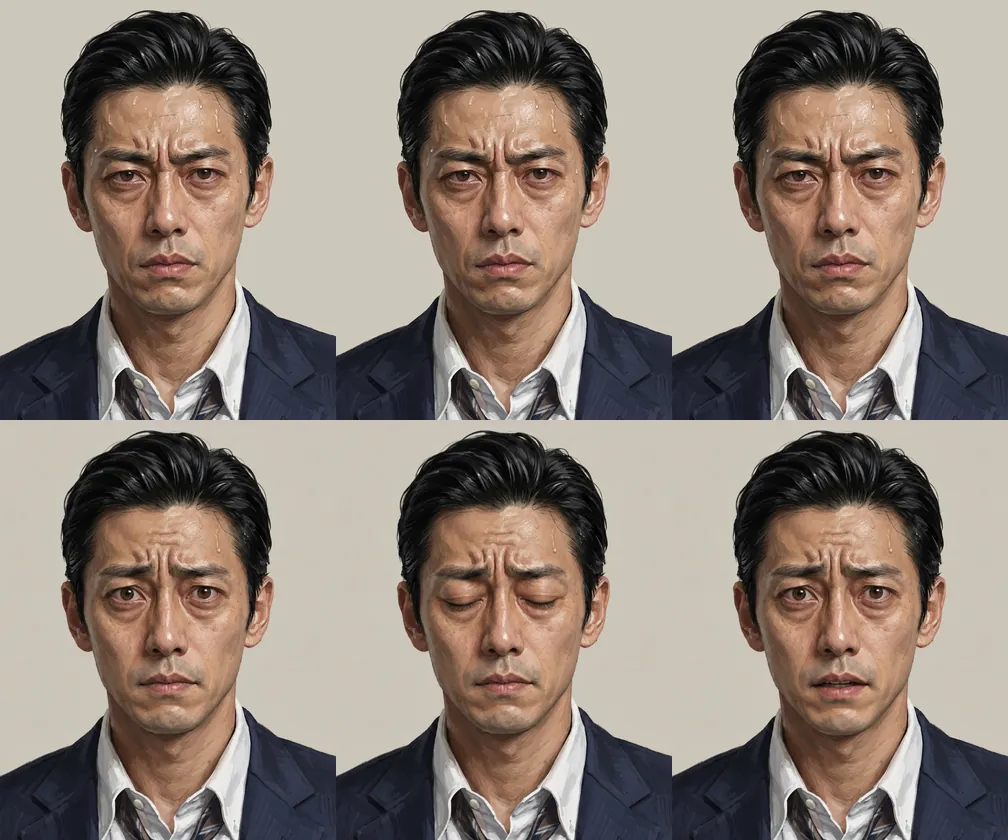
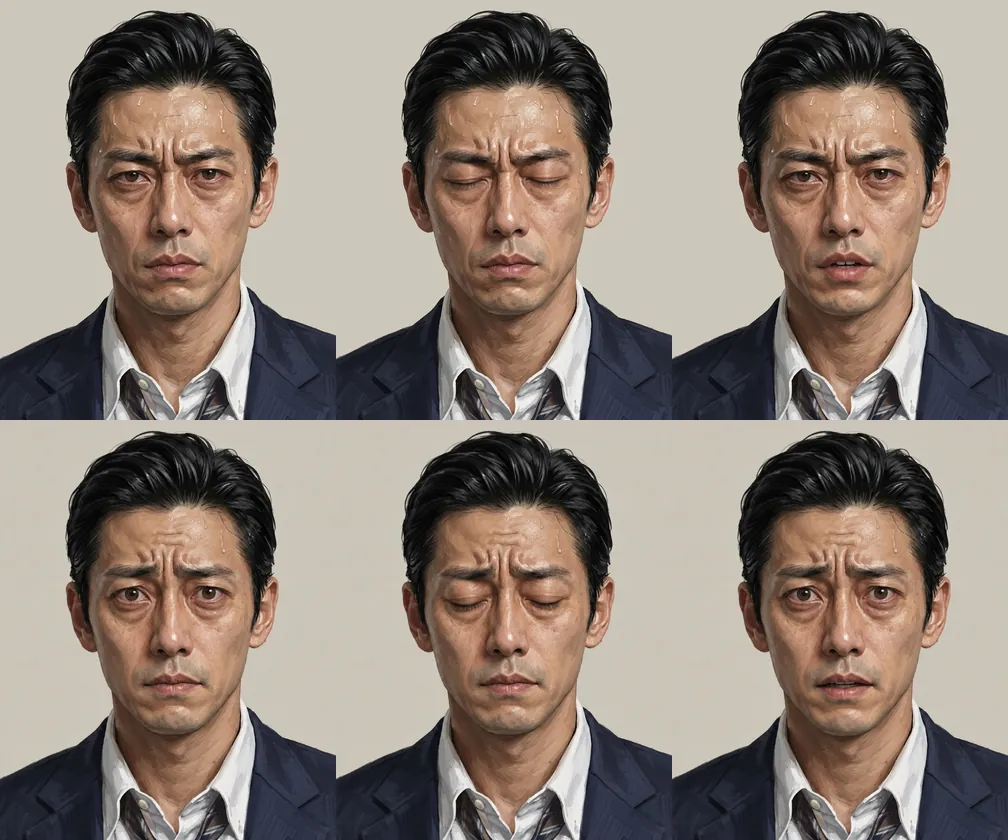
Faces blink and talk in CASE 12-15; their culprits shake and break; Brennan wears the horn-rimmed glasses the witnesses describe

diff --git a/img/manifest.js b/img/manifest.js
@@ -126,7 +126,7 @@ window.MG.images = {
   "c05/env_sheriff": "img/c05/env_sheriff.webp?v=09a24b19",
   "c05/env_star": "img/c05/env_star.webp?v=407baafc",
   "c05/env_typed": "img/c05/env_typed.webp?v=b580f052",
-  "c05/face_p_brennan": "img/c05/face_p_brennan.webp?v=50ef5759",
+  "c05/face_p_brennan": "img/c05/face_p_brennan.webp?v=32f98448",
   "c05/face_p_coyle": "img/c05/face_p_coyle.webp?v=4540fdb5",
   "c05/face_p_delgado": "img/c05/face_p_delgado.webp?v=4d45c697",
   "c05/face_p_dugan": "img/c05/face_p_dugan.webp?v=0e892991",
@@ -306,14 +306,14 @@ window.MG.images = {
   "c12/cover_bg": "img/c12/cover_bg.webp?v=fe8e5bb3",
   "c12/cover_s": "img/c12/cover_s.webp?v=d09cf988",
   "c12/dengon": "img/c12/dengon.webp?v=6af36349",
-  "c12/face_p_ishiguro": "img/c12/face_p_ishiguro.webp?v=f4fc2f9f",
-  "c12/face_p_kimura": "img/c12/face_p_kimura.webp?v=a3e86885",
-  "c12/face_p_murakoshi": "img/c12/face_p_murakoshi.webp?v=583ccd0b",
-  "c12/face_p_ogawa": "img/c12/face_p_ogawa.webp?v=e3d17c10",
-  "c12/face_p_paperboy": "img/c12/face_p_paperboy.webp?v=a3df938a",
-  "c12/face_p_shinji": "img/c12/face_p_shinji.webp?v=80297960",
-  "c12/face_p_takano": "img/c12/face_p_takano.webp?v=4e1cd5c9",
-  "c12/face_p_toshie": "img/c12/face_p_toshie.webp?v=0cb94158",
+  "c12/face_p_ishiguro": "img/c12/face_p_ishiguro.webp?v=d0ff18cb",
+  "c12/face_p_kimura": "img/c12/face_p_kimura.webp?v=082e8de2",
+  "c12/face_p_murakoshi": "img/c12/face_p_murakoshi.webp?v=7ed7e005",
+  "c12/face_p_ogawa": "img/c12/face_p_ogawa.webp?v=e6107e68",
+  "c12/face_p_paperboy": "img/c12/face_p_paperboy.webp?v=2fbeb8cd",
+  "c12/face_p_shinji": "img/c12/face_p_shinji.webp?v=cebc658c",
+  "c12/face_p_takano": "img/c12/face_p_takano.webp?v=34494019",
+  "c12/face_p_toshie": "img/c12/face_p_toshie.webp?v=b7f5bdcb",
   "c12/jiage": "img/c12/jiage.webp?v=b96e3af3",
   "c12/knot_bag": "img/c12/knot_bag.webp?v=b553acc6",
   "c12/luminol": "img/c12/luminol.webp?v=c22f181a",
@@ -340,11 +340,11 @@ window.MG.images = {
   "c13/cover_s": "img/c13/cover_s.webp?v=1495581b",
   "c13/door": "img/c13/door.webp?v=4606f206",
   "c13/drop": "img/c13/drop.webp?v=cfb6ffb6",
-  "c13/face_p_choi": "img/c13/face_p_choi.webp?v=d267a212",
-  "c13/face_p_jihan": "img/c13/face_p_jihan.webp?v=7c7bc77f",
-  "c13/face_p_kim": "img/c13/face_p_kim.webp?v=d6cff7ba",
-  "c13/face_p_oh": "img/c13/face_p_oh.webp?v=02e66d41",
-  "c13/face_p_woojin": "img/c13/face_p_woojin.webp?v=89f612c1",
+  "c13/face_p_choi": "img/c13/face_p_choi.webp?v=5faf7a1d",
+  "c13/face_p_jihan": "img/c13/face_p_jihan.webp?v=0ed3751e",
+  "c13/face_p_kim": "img/c13/face_p_kim.webp?v=33c6789d",
+  "c13/face_p_oh": "img/c13/face_p_oh.webp?v=e69cc2f5",
+  "c13/face_p_woojin": "img/c13/face_p_woojin.webp?v=ad4fa4f8",
   "c13/kick": "img/c13/kick.webp?v=02f09eea",
   "c13/locker": "img/c13/locker.webp?v=a06a2d94",
   "c13/room": "img/c13/room.webp?v=353632b7",
@@ -356,13 +356,13 @@ window.MG.images = {
   "c14/cover": "img/c14/cover.webp?v=6d424663",
   "c14/cover_bg": "img/c14/cover_bg.webp?v=7ef5560e",
   "c14/cover_s": "img/c14/cover_s.webp?v=adbea913",
-  "c14/face_p_changhoon": "img/c14/face_p_changhoon.webp?v=c995db05",
-  "c14/face_p_eunju": "img/c14/face_p_eunju.webp?v=94448c85",
-  "c14/face_p_jeongrye": "img/c14/face_p_jeongrye.webp?v=29e4ab2c",
-  "c14/face_p_oksun": "img/c14/face_p_oksun.webp?v=7b1cb2ce",
-  "c14/face_p_seok": "img/c14/face_p_seok.webp?v=980d3bf5",
-  "c14/face_p_siwoo": "img/c14/face_p_siwoo.webp?v=481d014c",
-  "c14/face_p_taeo": "img/c14/face_p_taeo.webp?v=f701de9c",
+  "c14/face_p_changhoon": "img/c14/face_p_changhoon.webp?v=b11d9d3d",
+  "c14/face_p_eunju": "img/c14/face_p_eunju.webp?v=8a9e5cef",
+  "c14/face_p_jeongrye": "img/c14/face_p_jeongrye.webp?v=4e78726f",
+  "c14/face_p_oksun": "img/c14/face_p_oksun.webp?v=0ac960ae",
+  "c14/face_p_seok": "img/c14/face_p_seok.webp?v=ecd7aee4",
+  "c14/face_p_siwoo": "img/c14/face_p_siwoo.webp?v=90b6ecf9",
+  "c14/face_p_taeo": "img/c14/face_p_taeo.webp?v=0b4333e3",
   "c14/fakedoc": "img/c14/fakedoc.webp?v=0e05b0e6",
   "c14/lock": "img/c14/lock.webp?v=4ecce381",
   "c14/market": "img/c14/market.webp?v=c094f293",
@@ -381,10 +381,10 @@ window.MG.images = {
   "c15/elev_cam": "img/c15/elev_cam.webp?v=b72ff04e",
   "c15/face_p_harin": "img/c15/face_p_harin.webp?v=79245a9f",
   "c15/face_p_jisu": "img/c15/face_p_jisu.webp?v=8840d0c3",
-  "c15/face_p_junhyuk": "img/c15/face_p_junhyuk.webp?v=dfc1134a",
-  "c15/face_p_landlord": "img/c15/face_p_landlord.webp?v=19470942",
-  "c15/face_p_minjae": "img/c15/face_p_minjae.webp?v=c864c061",
-  "c15/face_p_woobin": "img/c15/face_p_woobin.webp?v=d7566c64",
+  "c15/face_p_junhyuk": "img/c15/face_p_junhyuk.webp?v=ce2365d8",
+  "c15/face_p_landlord": "img/c15/face_p_landlord.webp?v=53958761",
+  "c15/face_p_minjae": "img/c15/face_p_minjae.webp?v=ca18eeab",
+  "c15/face_p_woobin": "img/c15/face_p_woobin.webp?v=c59f66fe",
   "c15/futsal": "img/c15/futsal.webp?v=8f245fe7",
   "c15/helmet_cam": "img/c15/helmet_cam.webp?v=d547b8e2",
   "c15/libnote": "img/c15/libnote.webp?v=f6e87ea0",
@@ -418,4 +418,4 @@ window.MG.images = {
   "_global/paper": "img/_global/paper.webp?v=da0f1de2",
   "_global/warn": "img/_global/warn.webp?v=1bc88cad"
 };
-window.MG.imageSize = {"c00/award":[1280,854],"c00/booth":[1280,960],"c00/bridge":[1280,960],"c00/cake":[1280,854],"c00/cat":[1280,960],"c00/cover":[1280,960],"c00/cover_bg":[640,480],"c00/cover_s":[260,196],"c00/cup":[1280,854],"c00/desk":[1280,960],"c00/doorbag":[1280,960],"c00/face_p_dohyun":[1008,420],"c00/face_p_jaehee":[1008,1260],"c00/face_p_manager":[1008,420],"c00/face_p_minji":[1008,420],"c00/face_p_neighbor":[1008,420],"c00/psd_preview":[1200,840],"c00/sketch":[1280,854],"c01/b_register":[1280,854],"c01/cover":[1280,960],"c01/cover_bg":[640,480],"c01/cover_s":[260,196],"c01/face_p_bill":[1008,840],"c01/face_p_croft":[1008,1260],"c01/face_p_dill":[1008,420],"c01/face_p_hannah":[1008,420],"c01/face_p_peggy":[1008,420],"c01/face_p_quarrell":[1008,420],"c01/face_p_vane":[1008,840],"c01/l_letter":[1280,960],"c01/l_postcard":[1280,960],"c01/l_slip":[1280,854],"c01/map":[1280,1170],"c01/patrollog":[1280,960],"c01/q_lamp":[1280,854],"c01/q_thread":[1280,1072],"c01/roseletter":[1280,962],"c01/s_candle":[1280,854],"c01/s_court":[1280,854],"c01/s_fundbox":[1280,854],"c01/s_patrol":[1280,854],"c01/s_sailor":[1280,854],"c01/s_tanners":[1280,854],"c02/attic":[1280,854],"c02/autopsy_table":[1280,960],"c02/barn_floor":[1280,960],"c02/calendar":[1280,1170],"c02/cover":[1280,854],"c02/cover_bg":[640,428],"c02/cover_s":[260,174],"c02/face_p_gerstl":[1008,420],"c02/face_p_hubmann":[1008,420],"c02/face_p_knauer":[1008,1260],"c02/face_p_magdalena":[1008,420],"c02/face_p_pfaenzl":[1008,840],"c02/face_p_resl":[1008,420],"c02/face_p_rottmayr":[1008,420],"c02/farm":[1280,854],"c02/hausbuch":[1280,854],"c02/hut":[1280,854],"c02/kasten":[1280,1170],"c02/kitchen":[1128,854],"c02/lock":[1280,1072],"c02/mailbox":[1280,854],"c02/plan":[1280,854],"c02/sk_kitchen":[1280,854],"c02/sk_stall":[1280,854],"c02/sledge":[1280,406],"c02/stall":[1280,854],"c02/suitcase":[1280,960],"c03/b_cafe":[1280,854],"c03/b_sewing":[1280,854],"c03/cover":[1280,1066],"c03/cover_bg":[640,534],"c03/cover_s":[260,216],"c03/face_p_baek":[1008,420],"c03/face_p_choi":[1008,420],"c03/face_p_gil":[1008,420],"c03/face_p_kwak":[1008,420],"c03/face_p_park":[1008,420],"c03/face_p_seo":[1008,1260],"c03/map":[1222,1288],"c03/n_boheol":[1280,1072],"c03/n_jodk":[1280,854],"c03/n_singer":[1280,1072],"c03/p_radio":[1280,960],"c03/p_safe":[1280,1170],"c03/p_shop":[1280,854],"c03/p_well":[1280,854],"c04/bike":[1280,854],"c04/bikephoto":[1280,800],"c04/boxes":[1280,960],"c04/coat":[1280,962],"c04/cover":[1280,854],"c04/cover_bg":[640,428],"c04/cover_s":[260,174],"c04/face_p_genzo":[1008,420],"c04/face_p_irie":[1008,1260],"c04/face_p_kitamura":[1008,840],"c04/face_p_okabe":[1008,840],"c04/face_p_ono":[1008,420],"c04/face_p_shimada":[1008,420],"c04/flare":[1280,960],"c04/kurotaki":[1280,854],"c04/l3_back":[1280,960],"c04/letter":[1280,854],"c04/map":[1280,854],"c04/matchbox":[1280,960],"c04/montage":[1030,1182],"c04/scene":[1280,720],"c04/siteboard":[1280,960],"c04/wind":[1280,960],"c05/cedar":[1280,720],"c05/cedar_car":[1280,960],"c05/cipherimg":[1280,960],"c05/cover":[1280,960],"c05/cover_bg":[640,480],"c05/cover_s":[260,196],"c05/depot":[1280,720],"c05/env_four":[1280,854],"c05/env_ref":[1280,854],"c05/env_sheriff":[1280,720],"c05/env_star":[1280,854],"c05/env_typed":[1280,854],"c05/face_p_brennan":[1008,1260],"c05/face_p_coyle":[1008,420],"c05/face_p_delgado":[1008,420],"c05/face_p_dugan":[1008,420],"c05/face_p_lowell":[1008,420],"c05/face_p_osgood":[1008,420],"c05/face_p_pell":[1008,840],"c05/letter1":[1280,854],"c05/lighthouse":[1280,720],"c05/masonhill":[1280,720],"c05/mh_car":[1280,960],"c05/payphone":[1086,1448],"c05/sketch":[1086,1448],"c05/truck":[1280,720],"c05/typed":[1280,960],"c06/autopsy_sheet":[1280,958],"c06/autopsy_sheet_mild":[1280,958],"c06/bags_table":[1280,854],"c06/cover":[1280,854],"c06/cover_bg":[640,428],"c06/cover_s":[260,174],"c06/face_p_brate":[1008,1260],"c06/face_p_kari":[1008,420],"c06/face_p_per":[1008,420],"c06/face_p_randi":[1008,420],"c06/face_p_remmert":[1008,840],"c06/face_p_solveig":[1008,420],"c06/face_p_taxi":[1008,420],"c06/fuel":[1280,854],"c06/harbor":[1280,854],"c06/hytte":[1280,854],"c06/regcard":[1280,960],"c06/scene_hollow":[1280,960],"c06/scene_hollow_mild":[1280,960],"c06/ship":[1280,854],"c06/station":[1280,854],"c06/stern":[1280,854],"c06/suitcases":[1280,498],"c06/thermos":[1280,854],"c06/touristmap":[1280,960],"c06/valley":[1280,960],"c07/cover":[1280,854],"c07/cover_bg":[640,428],"c07/cover_s":[260,174],"c07/face_p_granny":[1008,420],"c07/face_p_madam":[1008,420],"c07/face_p_mansik":[1008,840],"c07/face_p_no":[1008,840],"c07/face_p_operator":[1008,420],"c07/face_p_seok":[1008,1260],"c07/face_p_wife":[1008,840],"c07/handbag":[1280,960],"c07/house":[1280,960],"c07/ledger_page":[1280,960],"c07/news_car":[1280,854],"c07/photo_car":[1280,960],"c07/photo_seat":[1280,854],"c07/scene_map":[1280,854],"c07/seokcar":[1280,854],"c07/shop":[1280,854],"c07/songwol_gate":[1280,854],"c07/switchboard":[1280,960],"c07/tv":[1254,1254],"c08/booth":[1280,854],"c08/church":[1086,1448],"c08/cover":[1280,854],"c08/cover_bg":[640,428],"c08/cover_s":[260,174],"c08/face_p_driver":[1008,420],"c08/face_p_father":[1008,420],"c08/face_p_foreman":[1008,840],"c08/face_p_mother":[1008,420],"c08/face_p_shop":[1008,420],"c08/face_p_tak":[1008,1260],"c08/face_p_tutor":[1008,840],"c08/flyer":[1280,854],"c08/keys":[1280,960],"c08/map":[1280,854],"c08/montage":[1086,1448],"c08/montage_print":[1086,1448],"c08/news_site":[1280,960],"c08/note_paper":[1280,854],"c08/rail":[1280,854],"c08/ransom_bag":[1280,854],"c08/sg_call":[1200,576],"c08/sg_han":[1200,576],"c08/sg_jang":[1200,576],"c08/sg_tak":[1200,576],"c08/sg_yeom":[1200,576],"c08/shop_ledger":[1280,960],"c08/solmaru":[1280,960],"c08/warehouse":[1280,960],"c09/busstop":[1280,854],"c09/cctv":[1056,720],"c09/courier_room":[1280,854],"c09/cover":[1280,960],"c09/cover_bg":[640,480],"c09/cover_s":[260,196],"c09/door":[1280,960],"c09/face_p_courier":[1008,840],"c09/face_p_eunbi":[1008,420],"c09/face_p_jinwoo":[1008,420],"c09/face_p_realtor":[1008,420],"c09/face_p_sora":[1008,420],"c09/face_p_tak":[1008,1260],"c09/frames":[1280,960],"c09/haeun_photo":[1280,854],"c09/house204":[1280,960],"c09/house217":[1280,960],"c09/house219":[1280,854],"c09/house226":[1280,854],"c09/house230":[1280,960],"c09/map":[1280,854],"c09/mt_photo":[1280,854],"c09/ph217":[1280,960],"c09/ph219":[1280,960],"c09/pyogu":[1280,960],"c09/roof":[1280,854],"c09/sora_photo":[1280,960],"c10/cam_a":[1280,854],"c10/cam_b":[1280,720],"c10/cam_pier":[1280,960],"c10/cam_store":[1280,960],"c10/cam_taxi":[1280,720],"c10/cap":[1280,960],"c10/cover":[1280,854],"c10/cover_bg":[640,428],"c10/cover_s":[260,174],"c10/crates":[1280,960],"c10/face_p_bang":[1008,1260],"c10/face_p_guard":[1008,420],"c10/face_p_miran":[1008,420],"c10/face_p_myeongsu":[1008,840],"c10/face_p_okja":[1008,420],"c10/face_p_sangmin":[1008,420],"c10/hoesik":[1280,960],"c10/pier_day":[1280,960],"c11/autopsy_room":[1280,854],"c11/bus":[1280,854],"c11/butcher_floor":[1280,854],"c11/butcher_lumi":[1280,854],"c11/cover":[1280,960],"c11/cover_bg":[640,480],"c11/cover_s":[260,196],"c11/cut_a":[1280,854],"c11/cut_b":[1280,854],"c11/cut_c":[1280,854],"c11/cut_d":[1280,854],"c11/cut_ev":[1280,854],"c11/face_p_gil":[1008,420],"c11/face_p_ham":[1008,420],"c11/face_p_han":[1008,420],"c11/face_p_jin":[1008,420],"c11/face_p_park":[1008,420],"c11/face_p_woo":[1008,840],"c11/face_p_yeom":[1008,420],"c11/gauge":[1280,854],"c11/items_table":[1280,854],"c11/knot_ev":[1280,960],"c11/ledger_page":[1280,854],"c11/news_bridge":[1280,854],"c11/news_divers":[1280,960],"c11/news_reeds":[1280,854],"c11/news_shop":[1280,854],"c11/news_workshop":[1280,854],"c11/nfs_nacre":[1280,960],"c11/occ_reeds":[1280,854],"c11/photo_sack":[1280,960],"c11/ph_lumi":[1280,854],"c11/ph_match":[1280,854],"c11/ph_print":[1280,854],"c11/workshop_floor":[1280,854],"c12/bagsample":[1280,854],"c12/boiler":[1280,960],"c12/butcher":[1280,854],"c12/cleancart":[1280,1024],"c12/cover":[1280,854],"c12/cover_bg":[640,428],"c12/cover_s":[260,174],"c12/dengon":[1280,854],"c12/face_p_ishiguro":[1008,420],"c12/face_p_kimura":[1008,420],"c12/face_p_murakoshi":[1008,840],"c12/face_p_ogawa":[1008,420],"c12/face_p_paperboy":[1008,420],"c12/face_p_shinji":[1008,420],"c12/face_p_takano":[1008,420],"c12/face_p_toshie":[1008,420],"c12/jiage":[1280,960],"c12/knot_bag":[1280,960],"c12/luminol":[1280,960],"c12/n_park":[1280,854],"c12/pinkphone":[1024,1536],"c12/room":[1095,1072],"c12/saw_cast":[1280,960],"c12/scene_bin":[1280,854],"c12/sento":[1024,1536],"c12/sk_east":[1280,854],"c12/sk_lum":[1280,854],"c12/sk_sento":[1280,854],"c12/store":[1280,854],"c12/trap":[1280,854],"c12/videocard":[1280,854],"c12/wp":[1280,960],"c13/alley_day":[1280,960],"c13/bread":[1280,960],"c13/cctv_drop":[1280,720],"c13/cctv_pick":[1280,720],"c13/counter":[1280,854],"c13/cover":[1280,960],"c13/cover_bg":[640,480],"c13/cover_s":[260,196],"c13/door":[1280,960],"c13/drop":[1280,960],"c13/face_p_choi":[1008,420],"c13/face_p_jihan":[1008,420],"c13/face_p_kim":[1008,420],"c13/face_p_oh":[1008,420],"c13/face_p_woojin":[1008,420],"c13/kick":[1280,960],"c13/locker":[1280,960],"c13/room":[1280,854],"c13/store":[1280,960],"c13/tablet":[1280,960],"c14/atm":[888,960],"c14/bankbook":[1280,960],"c14/calendar":[1280,960],"c14/cover":[1280,960],"c14/cover_bg":[640,480],"c14/cover_s":[260,196],"c14/face_p_changhoon":[1008,420],"c14/face_p_eunju":[1008,420],"c14/face_p_jeongrye":[1008,420],"c14/face_p_oksun":[1008,420],"c14/face_p_seok":[1008,420],"c14/face_p_siwoo":[1008,420],"c14/face_p_taeo":[1008,420],"c14/fakedoc":[1280,960],"c14/lock":[1280,960],"c14/market":[1280,960],"c14/oksun":[1280,960],"c14/park":[1280,720],"c14/scooter":[1280,960],"c14/sk_door":[1280,854],"c14/sk_locker":[1280,854],"c14/stakeout":[1280,720],"c15/carlot":[1280,854],"c15/carwash":[1280,720],"c15/cctv_lane":[1280,960],"c15/cover":[1280,960],"c15/cover_bg":[640,480],"c15/cover_s":[260,196],"c15/elev_cam":[1280,960],"c15/face_p_harin":[1008,420],"c15/face_p_jisu":[1008,420],"c15/face_p_junhyuk":[1008,420],"c15/face_p_landlord":[1008,420],"c15/face_p_minjae":[1008,420],"c15/face_p_woobin":[1008,420],"c15/futsal":[1280,960],"c15/helmet_cam":[1280,720],"c15/libnote":[1280,960],"c15/note_photo":[1280,960],"c15/plate_photo":[1280,960],"c15/shoes":[1280,960],"c15/tracker_photo":[1280,960],"c15/watch_found":[1280,960],"_desk/ashtray":[600,594],"_desk/cassette":[600,400],"_desk/clips":[600,616],"_desk/energy":[600,600],"_desk/evidencebag":[600,900],"_desk/flipphone":[600,970],"_desk/glasses":[600,208],"_desk/inkpen":[600,588],"_desk/lanyard":[600,600],"_desk/magnifier":[600,602],"_desk/matchbox":[600,552],"_desk/mug":[600,488],"_desk/pager":[600,560],"_desk/pencil":[600,70],"_desk/pocketwatch":[600,588],"_desk/radio":[600,900],"_desk/smartphone":[600,1096],"_desk/stamp":[600,548],"_desk/takeaway":[600,706],"_desk/teacup":[600,602],"_global/desk":[1024,1024],"_global/hero":[1672,942],"_global/paper":[1024,1024],"_global/warn":[600,200]};
+window.MG.imageSize = {"c00/award":[1280,854],"c00/booth":[1280,960],"c00/bridge":[1280,960],"c00/cake":[1280,854],"c00/cat":[1280,960],"c00/cover":[1280,960],"c00/cover_bg":[640,480],"c00/cover_s":[260,196],"c00/cup":[1280,854],"c00/desk":[1280,960],"c00/doorbag":[1280,960],"c00/face_p_dohyun":[1008,420],"c00/face_p_jaehee":[1008,1260],"c00/face_p_manager":[1008,420],"c00/face_p_minji":[1008,420],"c00/face_p_neighbor":[1008,420],"c00/psd_preview":[1200,840],"c00/sketch":[1280,854],"c01/b_register":[1280,854],"c01/cover":[1280,960],"c01/cover_bg":[640,480],"c01/cover_s":[260,196],"c01/face_p_bill":[1008,840],"c01/face_p_croft":[1008,1260],"c01/face_p_dill":[1008,420],"c01/face_p_hannah":[1008,420],"c01/face_p_peggy":[1008,420],"c01/face_p_quarrell":[1008,420],"c01/face_p_vane":[1008,840],"c01/l_letter":[1280,960],"c01/l_postcard":[1280,960],"c01/l_slip":[1280,854],"c01/map":[1280,1170],"c01/patrollog":[1280,960],"c01/q_lamp":[1280,854],"c01/q_thread":[1280,1072],"c01/roseletter":[1280,962],"c01/s_candle":[1280,854],"c01/s_court":[1280,854],"c01/s_fundbox":[1280,854],"c01/s_patrol":[1280,854],"c01/s_sailor":[1280,854],"c01/s_tanners":[1280,854],"c02/attic":[1280,854],"c02/autopsy_table":[1280,960],"c02/barn_floor":[1280,960],"c02/calendar":[1280,1170],"c02/cover":[1280,854],"c02/cover_bg":[640,428],"c02/cover_s":[260,174],"c02/face_p_gerstl":[1008,420],"c02/face_p_hubmann":[1008,420],"c02/face_p_knauer":[1008,1260],"c02/face_p_magdalena":[1008,420],"c02/face_p_pfaenzl":[1008,840],"c02/face_p_resl":[1008,420],"c02/face_p_rottmayr":[1008,420],"c02/farm":[1280,854],"c02/hausbuch":[1280,854],"c02/hut":[1280,854],"c02/kasten":[1280,1170],"c02/kitchen":[1128,854],"c02/lock":[1280,1072],"c02/mailbox":[1280,854],"c02/plan":[1280,854],"c02/sk_kitchen":[1280,854],"c02/sk_stall":[1280,854],"c02/sledge":[1280,406],"c02/stall":[1280,854],"c02/suitcase":[1280,960],"c03/b_cafe":[1280,854],"c03/b_sewing":[1280,854],"c03/cover":[1280,1066],"c03/cover_bg":[640,534],"c03/cover_s":[260,216],"c03/face_p_baek":[1008,420],"c03/face_p_choi":[1008,420],"c03/face_p_gil":[1008,420],"c03/face_p_kwak":[1008,420],"c03/face_p_park":[1008,420],"c03/face_p_seo":[1008,1260],"c03/map":[1222,1288],"c03/n_boheol":[1280,1072],"c03/n_jodk":[1280,854],"c03/n_singer":[1280,1072],"c03/p_radio":[1280,960],"c03/p_safe":[1280,1170],"c03/p_shop":[1280,854],"c03/p_well":[1280,854],"c04/bike":[1280,854],"c04/bikephoto":[1280,800],"c04/boxes":[1280,960],"c04/coat":[1280,962],"c04/cover":[1280,854],"c04/cover_bg":[640,428],"c04/cover_s":[260,174],"c04/face_p_genzo":[1008,420],"c04/face_p_irie":[1008,1260],"c04/face_p_kitamura":[1008,840],"c04/face_p_okabe":[1008,840],"c04/face_p_ono":[1008,420],"c04/face_p_shimada":[1008,420],"c04/flare":[1280,960],"c04/kurotaki":[1280,854],"c04/l3_back":[1280,960],"c04/letter":[1280,854],"c04/map":[1280,854],"c04/matchbox":[1280,960],"c04/montage":[1030,1182],"c04/scene":[1280,720],"c04/siteboard":[1280,960],"c04/wind":[1280,960],"c05/cedar":[1280,720],"c05/cedar_car":[1280,960],"c05/cipherimg":[1280,960],"c05/cover":[1280,960],"c05/cover_bg":[640,480],"c05/cover_s":[260,196],"c05/depot":[1280,720],"c05/env_four":[1280,854],"c05/env_ref":[1280,854],"c05/env_sheriff":[1280,720],"c05/env_star":[1280,854],"c05/env_typed":[1280,854],"c05/face_p_brennan":[1008,1260],"c05/face_p_coyle":[1008,420],"c05/face_p_delgado":[1008,420],"c05/face_p_dugan":[1008,420],"c05/face_p_lowell":[1008,420],"c05/face_p_osgood":[1008,420],"c05/face_p_pell":[1008,840],"c05/letter1":[1280,854],"c05/lighthouse":[1280,720],"c05/masonhill":[1280,720],"c05/mh_car":[1280,960],"c05/payphone":[1086,1448],"c05/sketch":[1086,1448],"c05/truck":[1280,720],"c05/typed":[1280,960],"c06/autopsy_sheet":[1280,958],"c06/autopsy_sheet_mild":[1280,958],"c06/bags_table":[1280,854],"c06/cover":[1280,854],"c06/cover_bg":[640,428],"c06/cover_s":[260,174],"c06/face_p_brate":[1008,1260],"c06/face_p_kari":[1008,420],"c06/face_p_per":[1008,420],"c06/face_p_randi":[1008,420],"c06/face_p_remmert":[1008,840],"c06/face_p_solveig":[1008,420],"c06/face_p_taxi":[1008,420],"c06/fuel":[1280,854],"c06/harbor":[1280,854],"c06/hytte":[1280,854],"c06/regcard":[1280,960],"c06/scene_hollow":[1280,960],"c06/scene_hollow_mild":[1280,960],"c06/ship":[1280,854],"c06/station":[1280,854],"c06/stern":[1280,854],"c06/suitcases":[1280,498],"c06/thermos":[1280,854],"c06/touristmap":[1280,960],"c06/valley":[1280,960],"c07/cover":[1280,854],"c07/cover_bg":[640,428],"c07/cover_s":[260,174],"c07/face_p_granny":[1008,420],"c07/face_p_madam":[1008,420],"c07/face_p_mansik":[1008,840],"c07/face_p_no":[1008,840],"c07/face_p_operator":[1008,420],"c07/face_p_seok":[1008,1260],"c07/face_p_wife":[1008,840],"c07/handbag":[1280,960],"c07/house":[1280,960],"c07/ledger_page":[1280,960],"c07/news_car":[1280,854],"c07/photo_car":[1280,960],"c07/photo_seat":[1280,854],"c07/scene_map":[1280,854],"c07/seokcar":[1280,854],"c07/shop":[1280,854],"c07/songwol_gate":[1280,854],"c07/switchboard":[1280,960],"c07/tv":[1254,1254],"c08/booth":[1280,854],"c08/church":[1086,1448],"c08/cover":[1280,854],"c08/cover_bg":[640,428],"c08/cover_s":[260,174],"c08/face_p_driver":[1008,420],"c08/face_p_father":[1008,420],"c08/face_p_foreman":[1008,840],"c08/face_p_mother":[1008,420],"c08/face_p_shop":[1008,420],"c08/face_p_tak":[1008,1260],"c08/face_p_tutor":[1008,840],"c08/flyer":[1280,854],"c08/keys":[1280,960],"c08/map":[1280,854],"c08/montage":[1086,1448],"c08/montage_print":[1086,1448],"c08/news_site":[1280,960],"c08/note_paper":[1280,854],"c08/rail":[1280,854],"c08/ransom_bag":[1280,854],"c08/sg_call":[1200,576],"c08/sg_han":[1200,576],"c08/sg_jang":[1200,576],"c08/sg_tak":[1200,576],"c08/sg_yeom":[1200,576],"c08/shop_ledger":[1280,960],"c08/solmaru":[1280,960],"c08/warehouse":[1280,960],"c09/busstop":[1280,854],"c09/cctv":[1056,720],"c09/courier_room":[1280,854],"c09/cover":[1280,960],"c09/cover_bg":[640,480],"c09/cover_s":[260,196],"c09/door":[1280,960],"c09/face_p_courier":[1008,840],"c09/face_p_eunbi":[1008,420],"c09/face_p_jinwoo":[1008,420],"c09/face_p_realtor":[1008,420],"c09/face_p_sora":[1008,420],"c09/face_p_tak":[1008,1260],"c09/frames":[1280,960],"c09/haeun_photo":[1280,854],"c09/house204":[1280,960],"c09/house217":[1280,960],"c09/house219":[1280,854],"c09/house226":[1280,854],"c09/house230":[1280,960],"c09/map":[1280,854],"c09/mt_photo":[1280,854],"c09/ph217":[1280,960],"c09/ph219":[1280,960],"c09/pyogu":[1280,960],"c09/roof":[1280,854],"c09/sora_photo":[1280,960],"c10/cam_a":[1280,854],"c10/cam_b":[1280,720],"c10/cam_pier":[1280,960],"c10/cam_store":[1280,960],"c10/cam_taxi":[1280,720],"c10/cap":[1280,960],"c10/cover":[1280,854],"c10/cover_bg":[640,428],"c10/cover_s":[260,174],"c10/crates":[1280,960],"c10/face_p_bang":[1008,1260],"c10/face_p_guard":[1008,420],"c10/face_p_miran":[1008,420],"c10/face_p_myeongsu":[1008,840],"c10/face_p_okja":[1008,420],"c10/face_p_sangmin":[1008,420],"c10/hoesik":[1280,960],"c10/pier_day":[1280,960],"c11/autopsy_room":[1280,854],"c11/bus":[1280,854],"c11/butcher_floor":[1280,854],"c11/butcher_lumi":[1280,854],"c11/cover":[1280,960],"c11/cover_bg":[640,480],"c11/cover_s":[260,196],"c11/cut_a":[1280,854],"c11/cut_b":[1280,854],"c11/cut_c":[1280,854],"c11/cut_d":[1280,854],"c11/cut_ev":[1280,854],"c11/face_p_gil":[1008,420],"c11/face_p_ham":[1008,420],"c11/face_p_han":[1008,420],"c11/face_p_jin":[1008,420],"c11/face_p_park":[1008,420],"c11/face_p_woo":[1008,840],"c11/face_p_yeom":[1008,420],"c11/gauge":[1280,854],"c11/items_table":[1280,854],"c11/knot_ev":[1280,960],"c11/ledger_page":[1280,854],"c11/news_bridge":[1280,854],"c11/news_divers":[1280,960],"c11/news_reeds":[1280,854],"c11/news_shop":[1280,854],"c11/news_workshop":[1280,854],"c11/nfs_nacre":[1280,960],"c11/occ_reeds":[1280,854],"c11/photo_sack":[1280,960],"c11/ph_lumi":[1280,854],"c11/ph_match":[1280,854],"c11/ph_print":[1280,854],"c11/workshop_floor":[1280,854],"c12/bagsample":[1280,854],"c12/boiler":[1280,960],"c12/butcher":[1280,854],"c12/cleancart":[1280,1024],"c12/cover":[1280,854],"c12/cover_bg":[640,428],"c12/cover_s":[260,174],"c12/dengon":[1280,854],"c12/face_p_ishiguro":[1008,420],"c12/face_p_kimura":[1008,420],"c12/face_p_murakoshi":[1008,840],"c12/face_p_ogawa":[1008,420],"c12/face_p_paperboy":[1008,420],"c12/face_p_shinji":[1008,1260],"c12/face_p_takano":[1008,420],"c12/face_p_toshie":[1008,420],"c12/jiage":[1280,960],"c12/knot_bag":[1280,960],"c12/luminol":[1280,960],"c12/n_park":[1280,854],"c12/pinkphone":[1024,1536],"c12/room":[1095,1072],"c12/saw_cast":[1280,960],"c12/scene_bin":[1280,854],"c12/sento":[1024,1536],"c12/sk_east":[1280,854],"c12/sk_lum":[1280,854],"c12/sk_sento":[1280,854],"c12/store":[1280,854],"c12/trap":[1280,854],"c12/videocard":[1280,854],"c12/wp":[1280,960],"c13/alley_day":[1280,960],"c13/bread":[1280,960],"c13/cctv_drop":[1280,720],"c13/cctv_pick":[1280,720],"c13/counter":[1280,854],"c13/cover":[1280,960],"c13/cover_bg":[640,480],"c13/cover_s":[260,196],"c13/door":[1280,960],"c13/drop":[1280,960],"c13/face_p_choi":[1008,420],"c13/face_p_jihan":[1008,840],"c13/face_p_kim":[1008,420],"c13/face_p_oh":[1008,1260],"c13/face_p_woojin":[1008,840],"c13/kick":[1280,960],"c13/locker":[1280,960],"c13/room":[1280,854],"c13/store":[1280,960],"c13/tablet":[1280,960],"c14/atm":[888,960],"c14/bankbook":[1280,960],"c14/calendar":[1280,960],"c14/cover":[1280,960],"c14/cover_bg":[640,480],"c14/cover_s":[260,196],"c14/face_p_changhoon":[1008,420],"c14/face_p_eunju":[1008,420],"c14/face_p_jeongrye":[1008,420],"c14/face_p_oksun":[1008,420],"c14/face_p_seok":[1008,1260],"c14/face_p_siwoo":[1008,840],"c14/face_p_taeo":[1008,840],"c14/fakedoc":[1280,960],"c14/lock":[1280,960],"c14/market":[1280,960],"c14/oksun":[1280,960],"c14/park":[1280,720],"c14/scooter":[1280,960],"c14/sk_door":[1280,854],"c14/sk_locker":[1280,854],"c14/stakeout":[1280,720],"c15/carlot":[1280,854],"c15/carwash":[1280,720],"c15/cctv_lane":[1280,960],"c15/cover":[1280,960],"c15/cover_bg":[640,480],"c15/cover_s":[260,196],"c15/elev_cam":[1280,960],"c15/face_p_harin":[1008,420],"c15/face_p_jisu":[1008,420],"c15/face_p_junhyuk":[1008,840],"c15/face_p_landlord":[1008,840],"c15/face_p_minjae":[1008,1260],"c15/face_p_woobin":[1008,840],"c15/futsal":[1280,960],"c15/helmet_cam":[1280,720],"c15/libnote":[1280,960],"c15/note_photo":[1280,960],"c15/plate_photo":[1280,960],"c15/shoes":[1280,960],"c15/tracker_photo":[1280,960],"c15/watch_found":[1280,960],"_desk/ashtray":[600,594],"_desk/cassette":[600,400],"_desk/clips":[600,616],"_desk/energy":[600,600],"_desk/evidencebag":[600,900],"_desk/flipphone":[600,970],"_desk/glasses":[600,208],"_desk/inkpen":[600,588],"_desk/lanyard":[600,600],"_desk/magnifier":[600,602],"_desk/matchbox":[600,552],"_desk/mug":[600,488],"_desk/pager":[600,560],"_desk/pencil":[600,70],"_desk/pocketwatch":[600,588],"_desk/radio":[600,900],"_desk/smartphone":[600,1096],"_desk/stamp":[600,548],"_desk/takeaway":[600,706],"_desk/teacup":[600,602],"_global/desk":[1024,1024],"_global/hero":[1672,942],"_global/paper":[1024,1024],"_global/warn":[600,200]};
